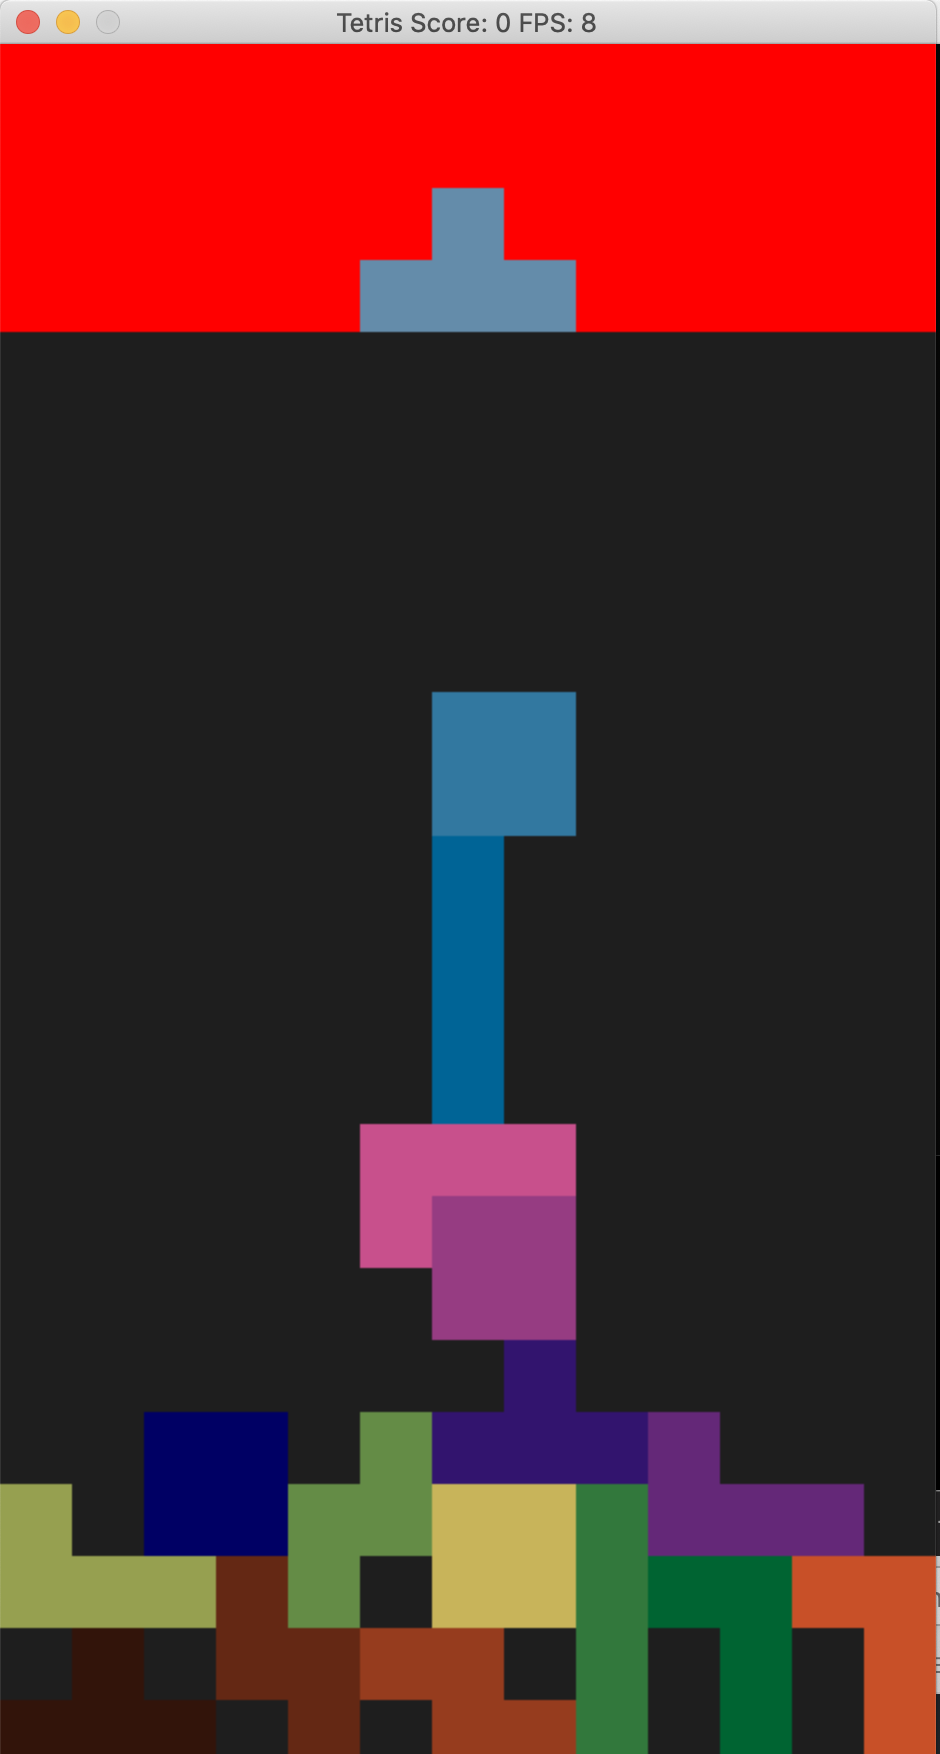
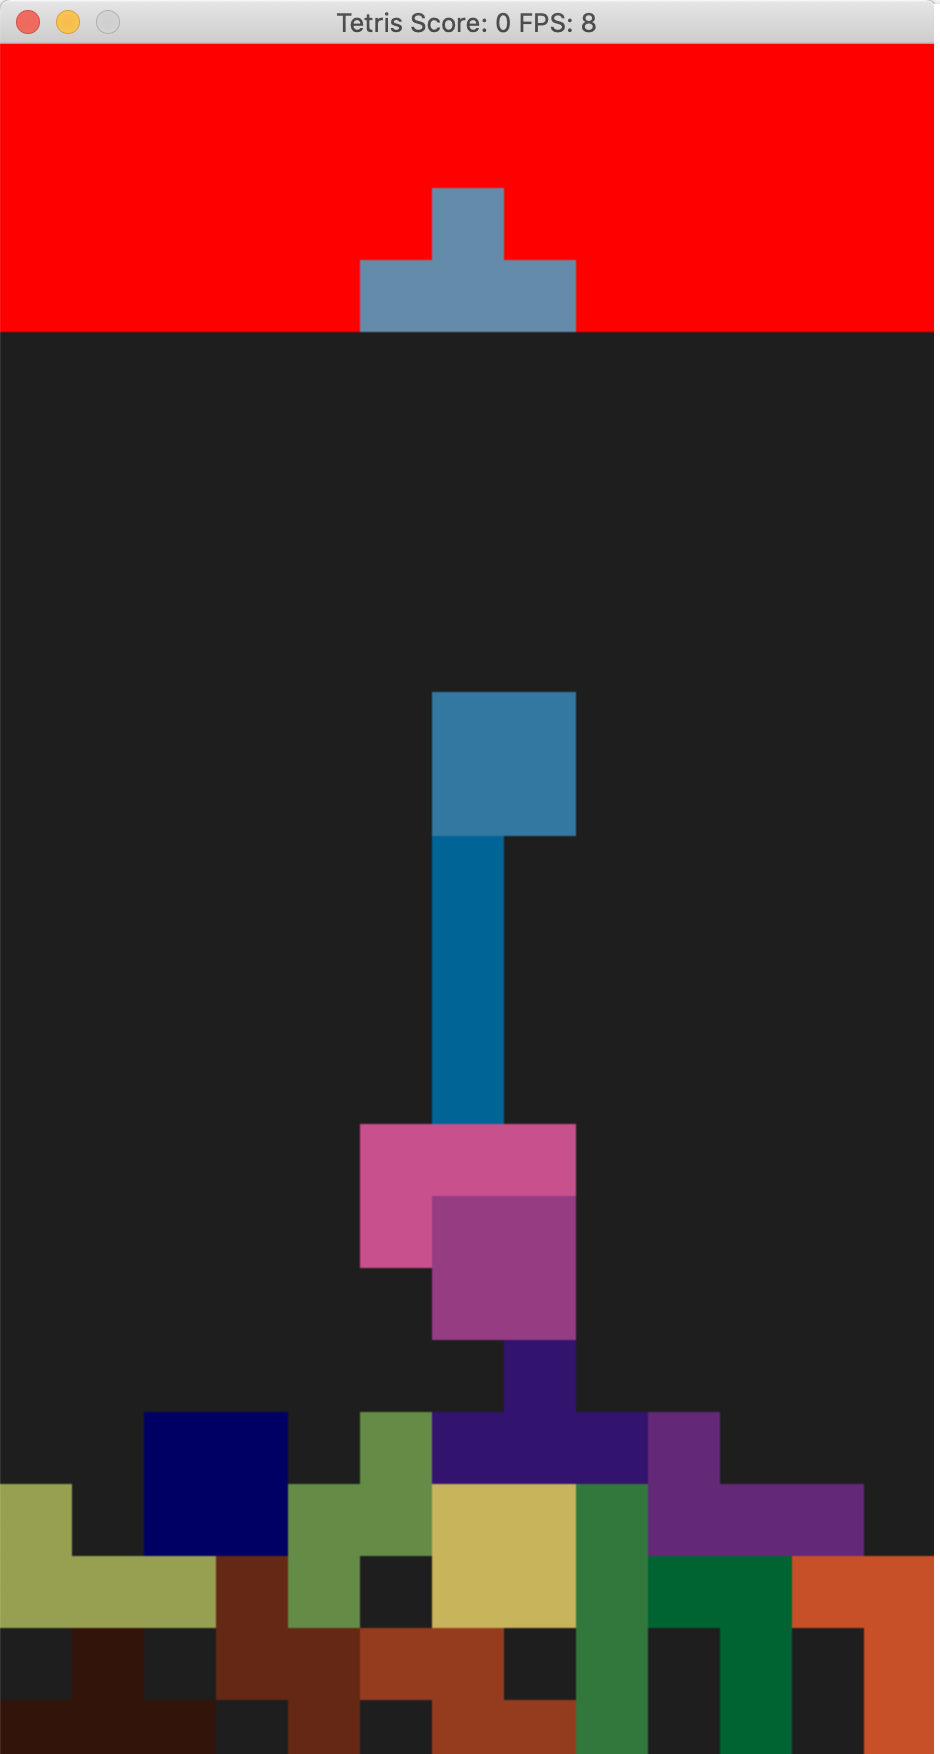
final commifinal committ

Changed region(s): [[0.9872, 0.0, 1.0, 1.0]]

diff --git a/README.md b/README.md
@@ -3,7 +3,9 @@
  In order to approach this task I have created a Matrix data type class in order to provide basic functionality for the game. 
  
  Funcitonality of the game is ensured by using matrices to represent the individual Tetracubes needed to play this game. 
-<img src="Tetris.png" width="350" height="600"/>
+
+<img src="Tetris.png" />
+
  Rendering is done with the SDL library.
  ## Dependencies for Running Tetris Locally
  * cmake >= 3.7
